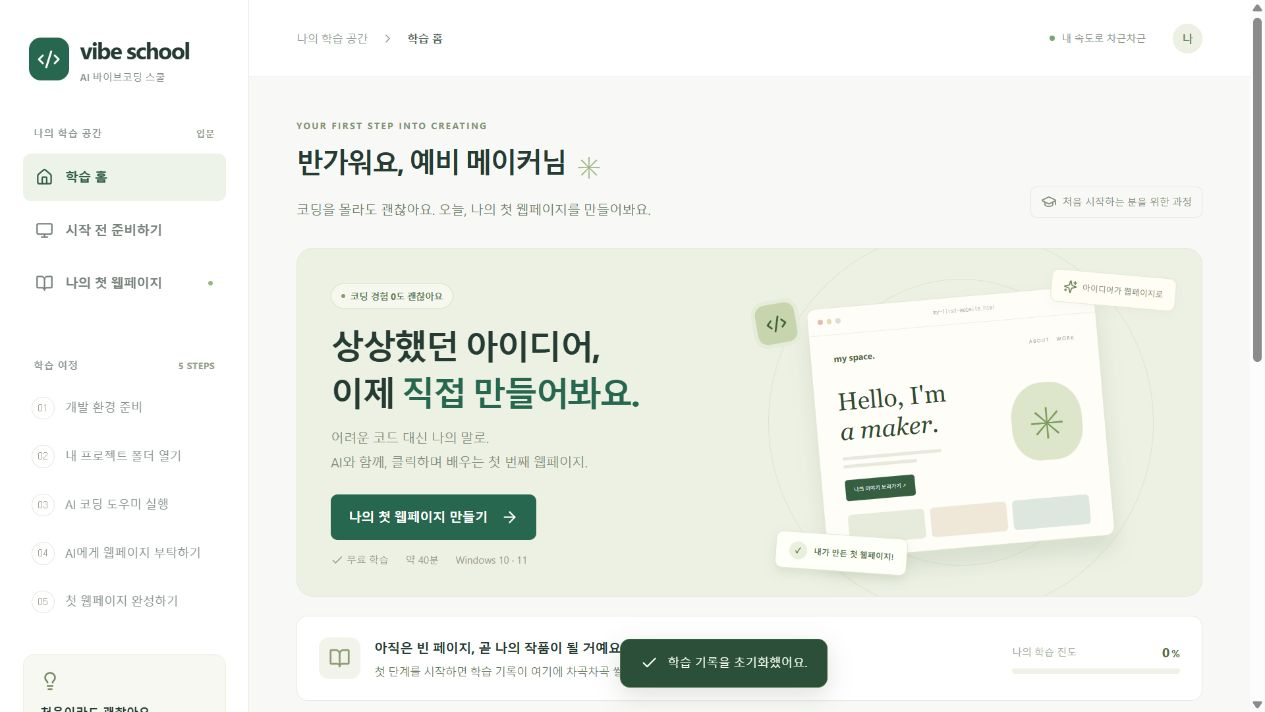
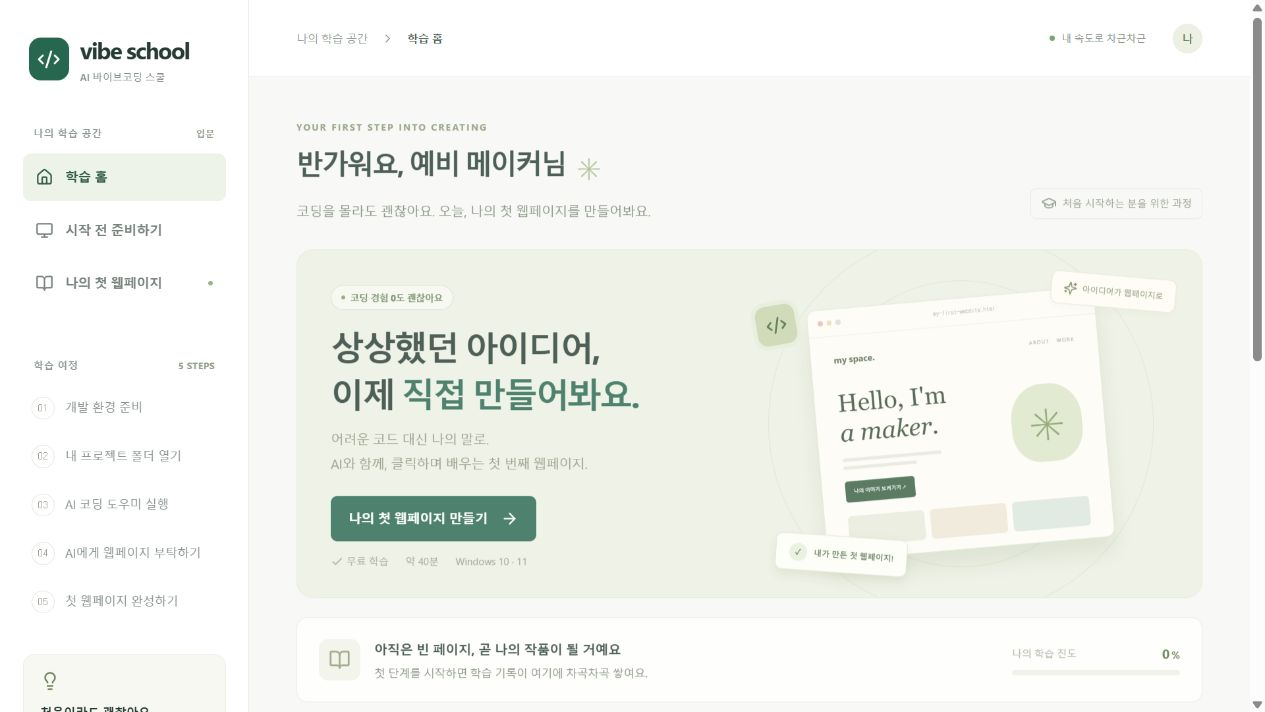
Update Site source

diff --git a/docs/PROGRESS.md b/docs/PROGRESS.md
@@ -5,4 +5,6 @@
 - [x] Phase 2: 10개 클릭 화면, 강조, 정답 판정, 오클릭 안내, 이전/다음
 - [x] Phase 3: OpenCode 안내, 프롬프트 복사, 샌드박스 예제, HTML 다운로드, 완료
 - [x] Phase 4: TypeScript 및 프로덕션 빌드, 브라우저 주요 경로, 저장 복원, 발표 자료
-- 배포: Sites에 비공개 사이트 등록 완료. 소스 패키징·배포 결과는 이후 기록.
+- [x] Sites 비공개 배포 성공: https://vibe-school-first-steps.sinjirei.chatgpt.site
+- 배포 주소는 소유자의 ChatGPT 로그인이 필요함. 일반 수강생 공개는 아직 진행하지 않음.
+- Vercel 배포는 별도로 실행하지 않았으며 README에 정적 배포 방법을 기록함.

diff --git a/README.md b/README.md
@@ -2,6 +2,8 @@
 
 코딩 완전 초보자가 VS Code·OpenCode 모사 화면을 클릭하며 자기소개 웹페이지 제작 흐름을 배우는 한국어 온라인 교육 MVP입니다.
 
+비공개 배포: https://vibe-school-first-steps.sinjirei.chatgpt.site (소유자의 ChatGPT 로그인 필요)
+
 ## 실행하기
 Node.js 20.19+ 또는 22.12+가 필요합니다. 터미널에서 이 폴더로 이동한 뒤:
 
